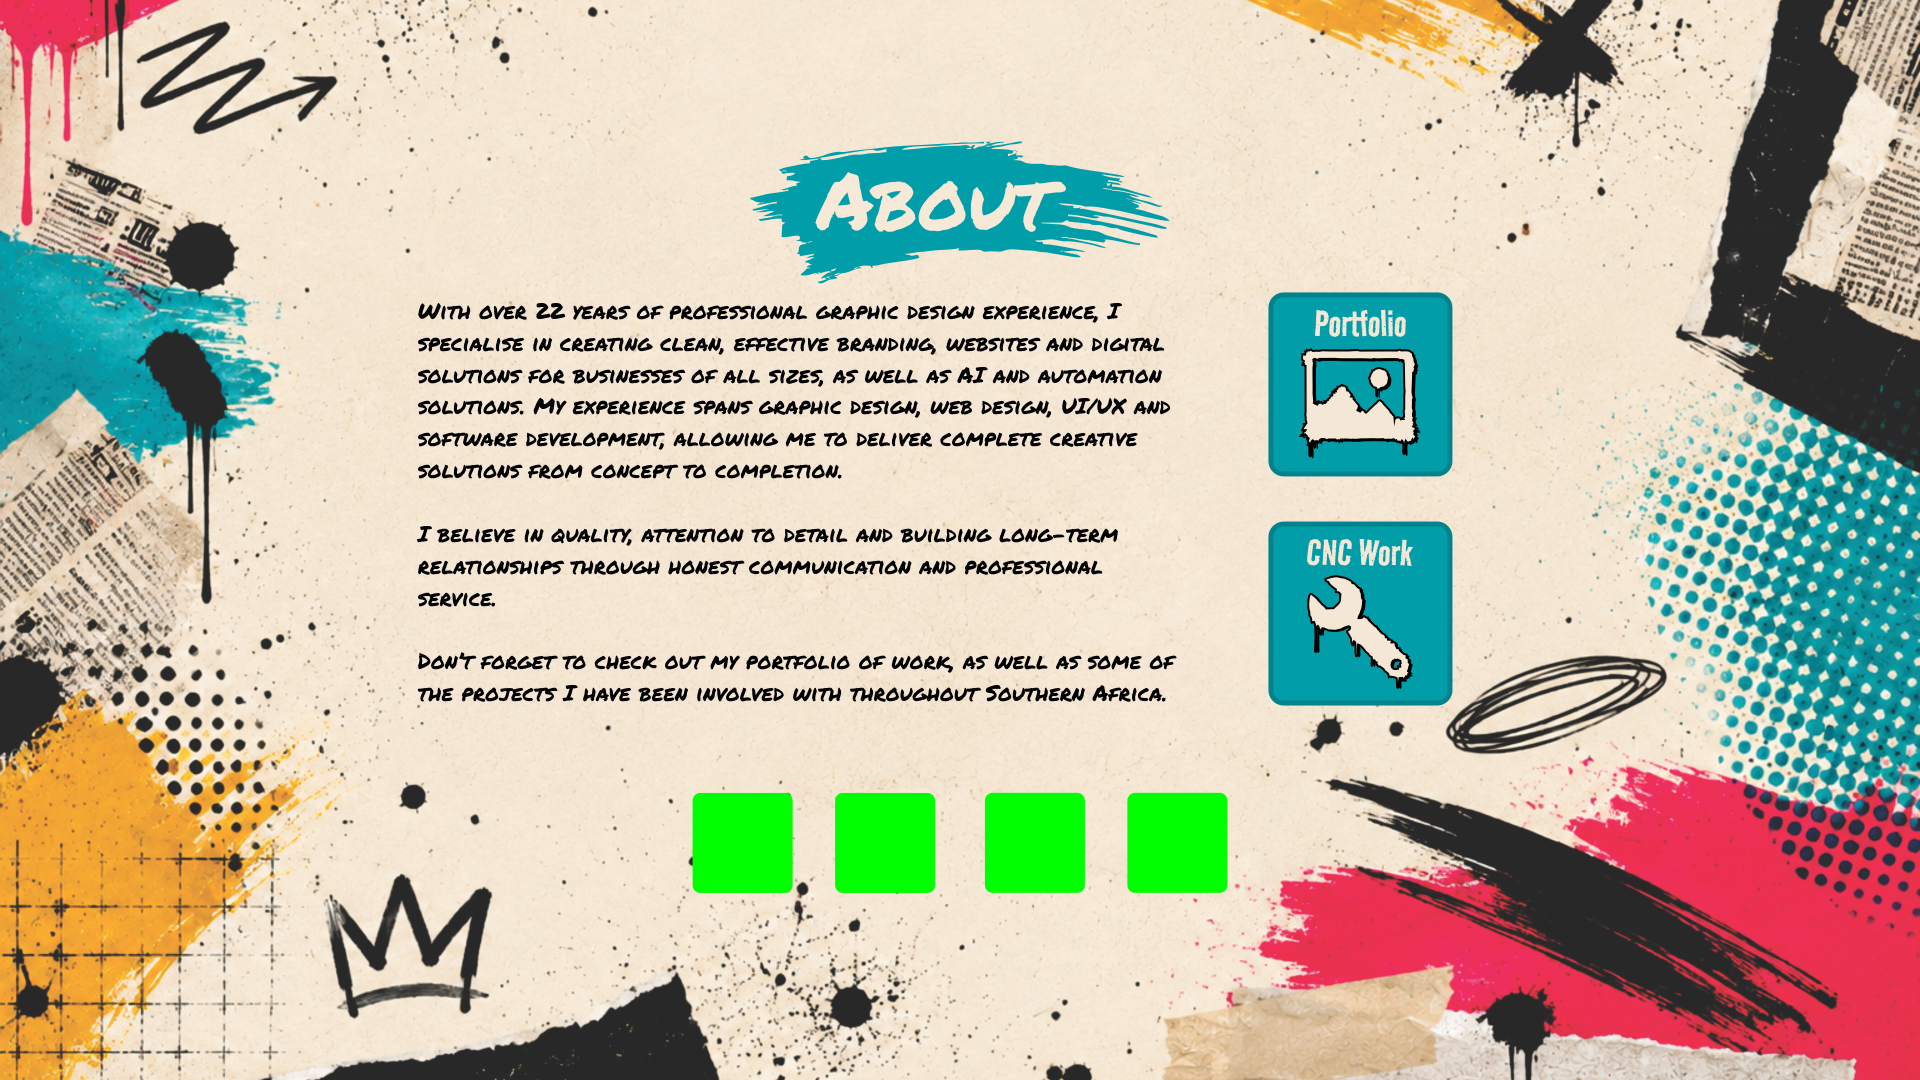
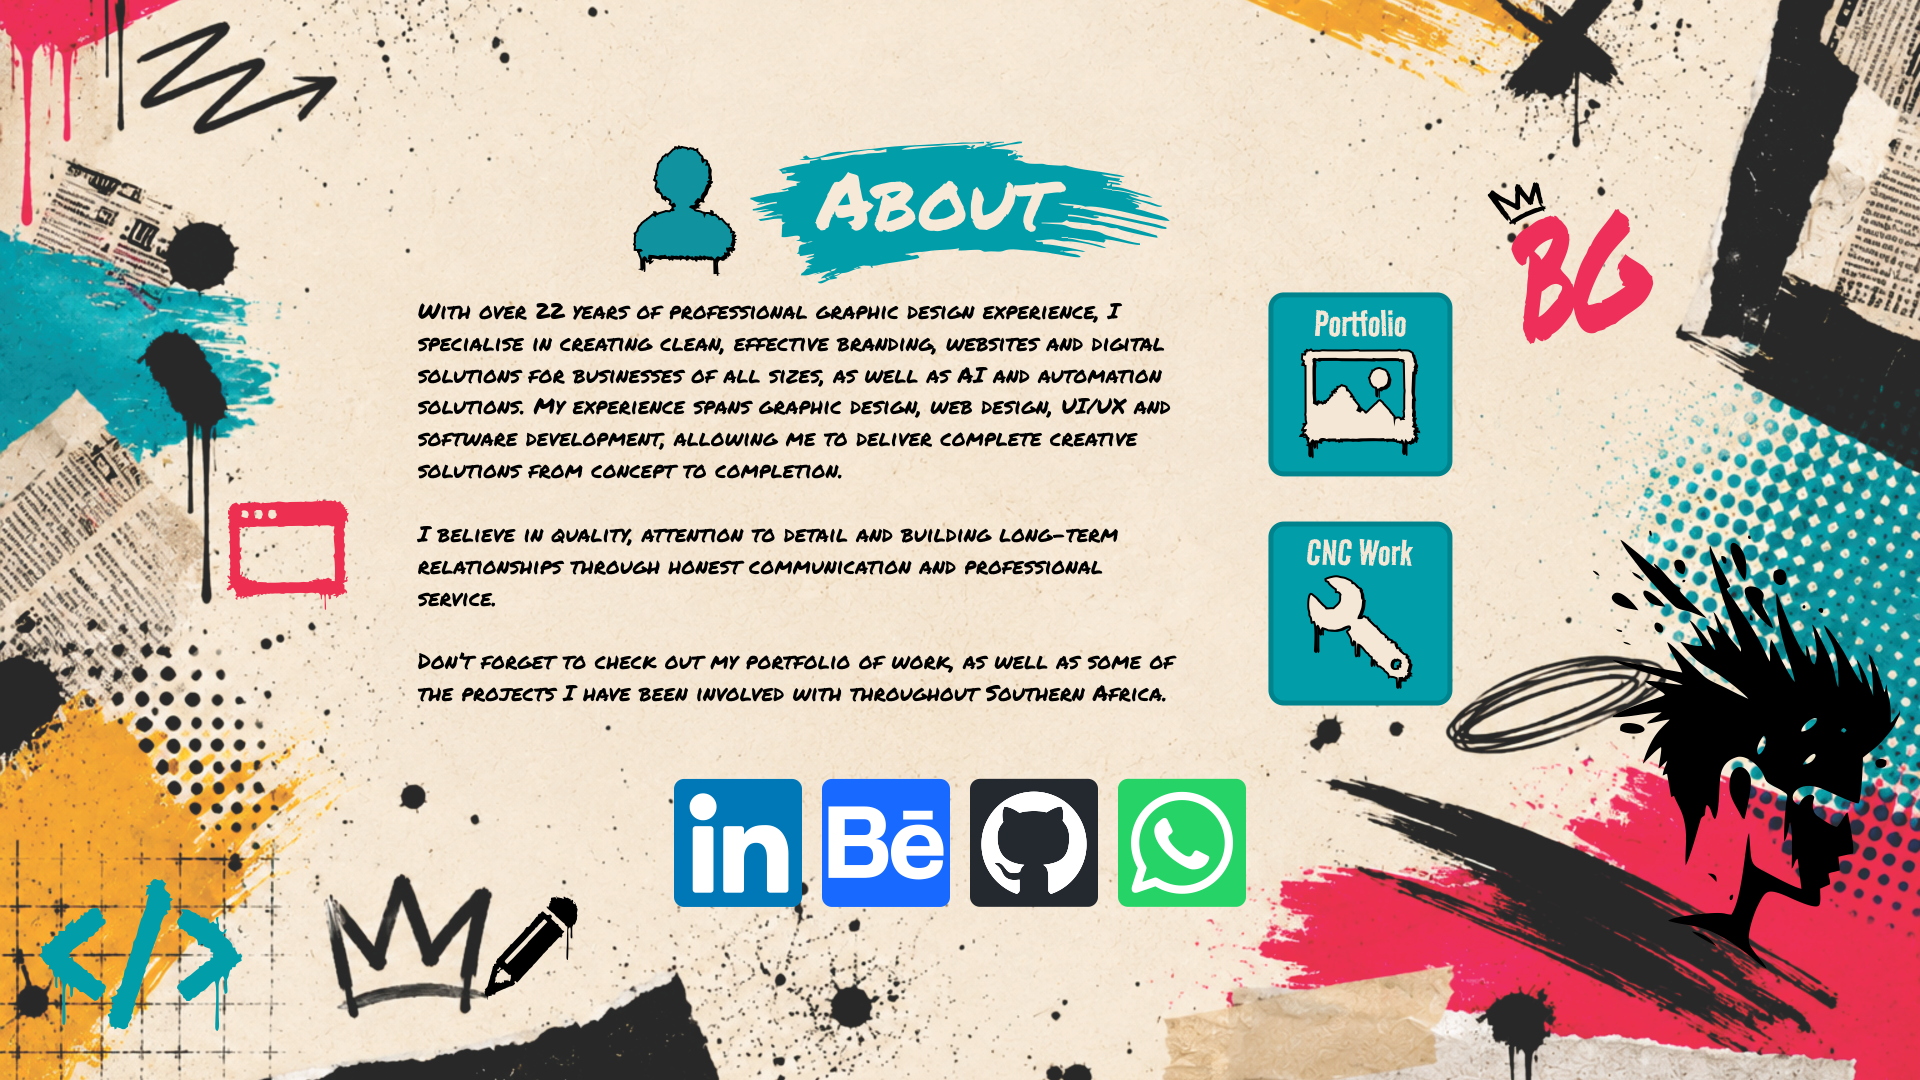
feat: add about screen assets and update project structure

diff --git a/index.html b/index.html
@@ -188,6 +188,10 @@
       <!-- Buttons -->
       <img src="assets/website/about_screen/About Screen - Button - Portfolio.svg" class="about-layer about-btn-img-portfolio" alt="">
       <img src="assets/website/about_screen/About Screen - Button - CNC Work.svg"  class="about-layer about-btn-img-cnc"       alt="">
+      <img src="assets/website/about_screen/About Screen - Button - LinkedIn.svg"  class="about-layer about-btn-img-linkedin"  alt="">
+      <img src="assets/website/about_screen/About Screen - Button - Behance.svg"   class="about-layer about-btn-img-behance"   alt="">
+      <img src="assets/website/about_screen/About Screen - Button - GitHub.svg"    class="about-layer about-btn-img-github"    alt="">
+      <img src="assets/website/about_screen/About Screen - Button - WhatsApp.svg"  class="about-layer about-btn-img-whatsapp"  alt="">
 
       <!-- Overlays -->
       <a href="side-projects.html" class="about-btn-overlay about-btn-portfolio" aria-label="Portfolio"></a>

diff --git a/styles.css b/styles.css
@@ -263,11 +263,17 @@ nav {
 }
 
 /* Interactive Hovers (GPU Accelerated Filters) */
-.about-btn-img-portfolio, .about-btn-img-cnc {
+.about-btn-img-portfolio, .about-btn-img-cnc,
+.about-btn-img-linkedin, .about-btn-img-behance,
+.about-btn-img-github, .about-btn-img-whatsapp {
   transition: filter 0.2s cubic-bezier(0.4, 0, 0.2, 1);
 }
 .about-canvas:has(.about-btn-portfolio:hover) .about-btn-img-portfolio { filter: brightness(1.22); }
 .about-canvas:has(.about-btn-cnc:hover) .about-btn-img-cnc { filter: brightness(1.22); }
+.about-canvas:has(.about-btn-linkedin:hover) .about-btn-img-linkedin { filter: brightness(1.22); }
+.about-canvas:has(.about-btn-behance:hover) .about-btn-img-behance   { filter: brightness(1.22); }
+.about-canvas:has(.about-btn-github:hover) .about-btn-img-github     { filter: brightness(1.22); }
+.about-canvas:has(.about-btn-whatsapp:hover) .about-btn-img-whatsapp { filter: brightness(1.22); }
 
 /* ── PHILOSOPHY [NEW] ── */
 .philosophy-section {

diff --git a/.artifacts/23e66fc0-b774-4692-9990-4b5298332a37/walkthrough.artifact.md b/.artifacts/23e66fc0-b774-4692-9990-4b5298332a37/walkthrough.artifact.md
@@ -13,9 +13,10 @@ I have optimized the "About" section for both readability and search engines, en
 - **Metadata Update**: Synced the `visually-hidden` SEO content with your actual professional history (22 years experience, AI/Automation focus).
 - **Alt Text Improvements**: Enhanced `alt` attributes on desktop SVG layers to provide meaningful descriptions for screen readers.
 
-### 3. Mobile Social Links
-- **New Socials Block**: Added LinkedIn, Behance, GitHub, and WhatsApp links to the mobile view.
-- **Consistent Design**: Styled these links with a high-contrast yellow background and shadow to match the overall site design.
+### 3. Social Media Buttons Integration
+- **Desktop Visuals**: Added the new SVG assets for LinkedIn, Behance, GitHub, and WhatsApp as visible layers in the desktop canvas.
+- **Interactive Effects**: Applied hover transitions and brightness filters to all social buttons to match the "Portfolio" and "CNC Work" buttons.
+- **Mobile Parity**: Added consistent text-based social links to the mobile view with high-contrast styling.
 
 ## Verification Results
 

diff --git a/.artifacts/23e66fc0-b774-4692-9990-4b5298332a37/task.artifact.md b/.artifacts/23e66fc0-b774-4692-9990-4b5298332a37/task.artifact.md
@@ -3,3 +3,5 @@
 - [x] Add Social Links to Mobile About section
 - [x] Update Mobile Styling in `styles.css`
 - [x] Verify Mobile Readability and Link Functionality
+- [x] Integrate Social Media Button assets into Desktop About section
+- [ ] Final visual check
